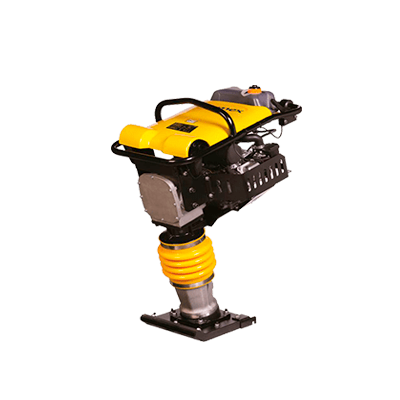
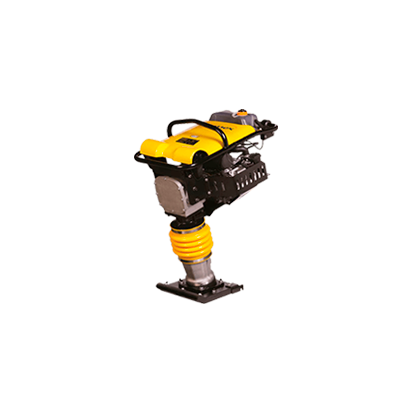
geradores

Changed region(s): [[0.27, 0.21, 0.75, 0.87]]

diff --git a/script.js b/script.js
@@ -102,7 +102,7 @@ document.addEventListener('DOMContentLoaded', function() {
             id: 10,
             name: "Compactador de Solo",
             description: "Compactação de solo para fundações e pavimentação.",
-            image: "",
+            image: "/imgs/compactador-loccom-min.png",
             specs: { Mensal: "R$ 3.500/unit",
                      Quantidades: "02 unidades disponíveis",
             },
